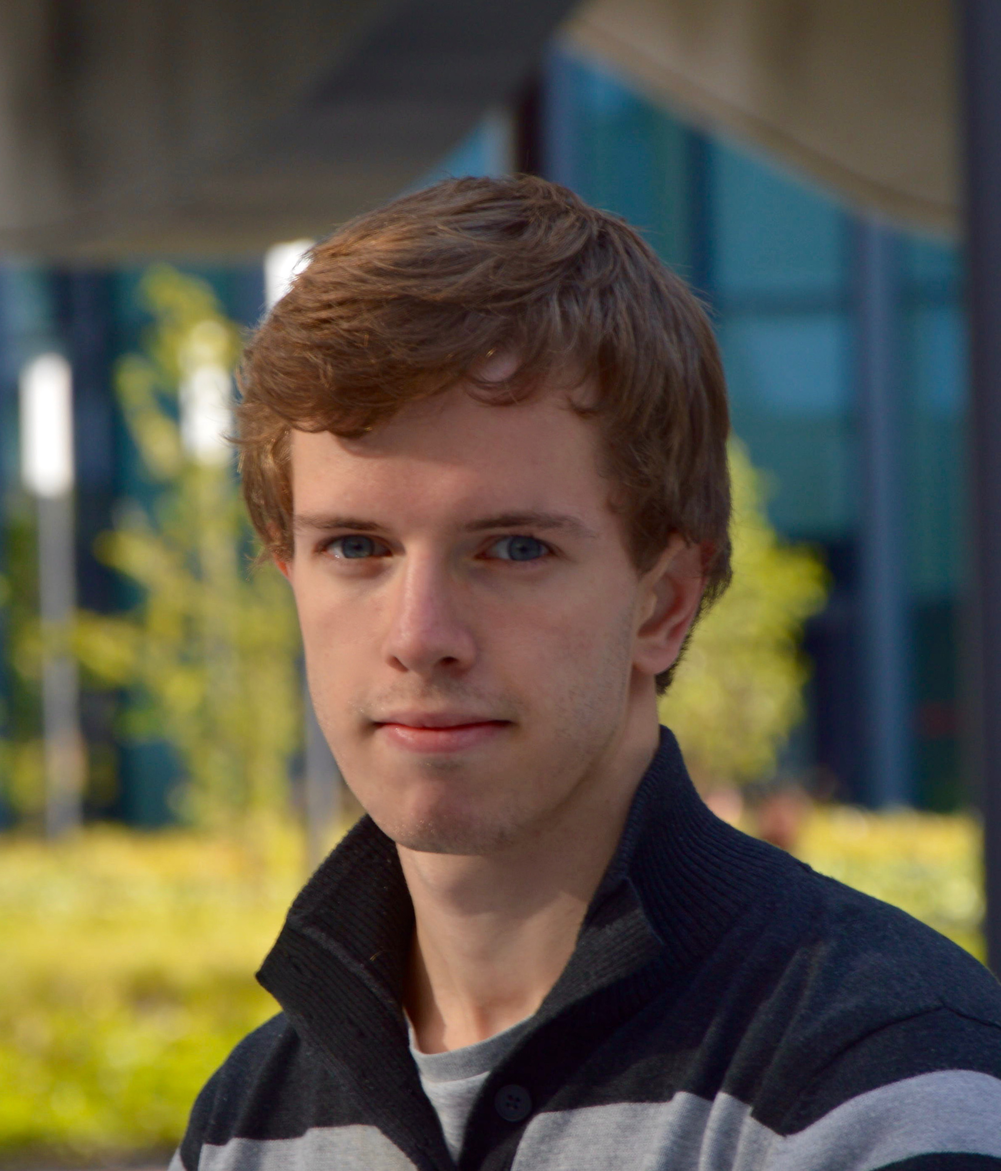
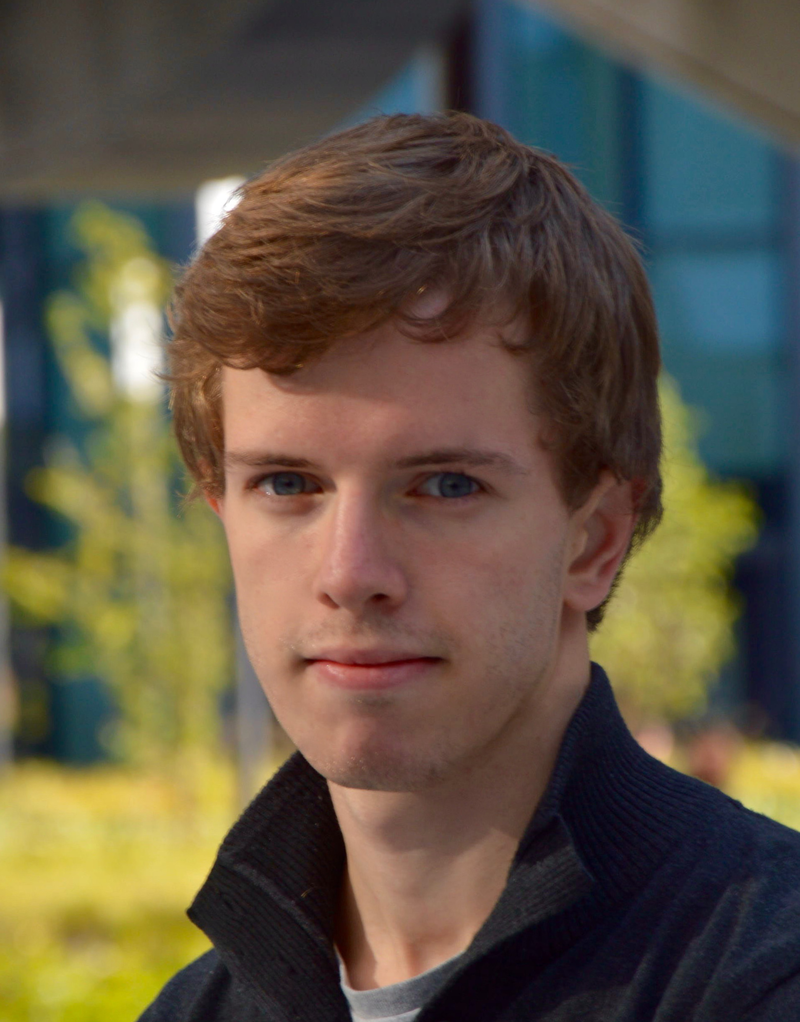
[IP] update cv

diff --git a/IP/CV_paulwillot_en/cv_paul_willot.tex b/IP/CV_paulwillot_en/cv_paul_willot.tex
@@ -48,13 +48,14 @@
 
 % All information in this block is optional, comment out any lines you don't need
 %\title{Curriculum Vitae}
-\title{I support vector machines}
-\address{2 quai du barrage}{94340, Joinville-le-Pont}
+%\title{I support vector machines}
+\title{~~}
+\address{2 quai du barrage}{94340, Joinville}
 \mobile{+33 6 76 13 83 21}
 \email{paul.willot@etu.upmc.fr}
 \extrainfo{19/12/1995}
-%\photo{picture.jpg}
-%\homepage{}{} % The first argument is the url for the clickable link, the second argument is the url displayed in the template - this allows special characters to be displayed such as the tilde in this example
+\photo[80pt][0.2pt]{picture.jpg}
+\homepage{paulwillot.github.io}{} % The first argument is the url for the clickable link, the second argument is the url displayed in the template - this allows special characters to be displayed such as the tilde in this example
 %\extrainfo{additional information}
 %\photo[70pt][0.4pt]{pictures/picture} % The first bracket is the picture height, the second is the thickness of the frame around the picture (0pt for no frame)
 %\quote{"A witty and playful quotation" - John Smith}
@@ -66,7 +67,7 @@
 \begin{document}
 
 \makecvtitle % Print the CV title
-\hfill \break
+%\hfill \break
 %\hrulefill
 %----------------------------------------------------------------------------------------
 %	EDUCATION SECTION
@@ -136,8 +137,10 @@
 %----------------------------------------------------------------------------------------
 
 \section{Skills}
-\cvitem{Sufficient}{\textsc{Scala},\textsc{SQL}, \textsc{OCaml}, \textsc{C}, \textsc{Ada}, \LaTeX}
-\cvitem{Advanced}{\textsc{Python} (pandas/theano/gensim), \textsc{Lua} (torch), \textsc{Matlab}}
+\cvitem{OS}{Linux, Mac, Windows}
+\cvitem{BI / DB}{\textsc{SQL, XQuery, SPARQL, OLAP/MDX, ETL} (Pentaho)}
+\cvitem{Sufficient}{\textsc{C}, \textsc{Ada}, \textsc{Java}, \textsc{OCaml}, \textsc{Matlab}, \textsc{\LaTeX}}
+\cvitem{Advanced}{\textsc{Python} (pandas/theano/gensim), \textsc{Lua} (torch), \textsc{Scala} (Spark)}
 %C, Python, Java, Ada, OCaml, HTML, SQL,
 
 %----------------------------------------------------------------------------------------
@@ -183,8 +186,7 @@
 %\cvitem{Musique}{Piano}
 
 \cvlistitem{Deep Learning, Kaggle, Meetups}
-\cvlistitem{Sports: Rock climbing, Skiing, Hiking, Hacking}
-\cvlistitem{Music: Piano}
+\cvlistitem{Sports: Rock climbing, Skiing, Hiking, Hacking~~~~~~Music: Piano}
 
 
 %\cvlistdoubleitem{Traveling}{Reading}
